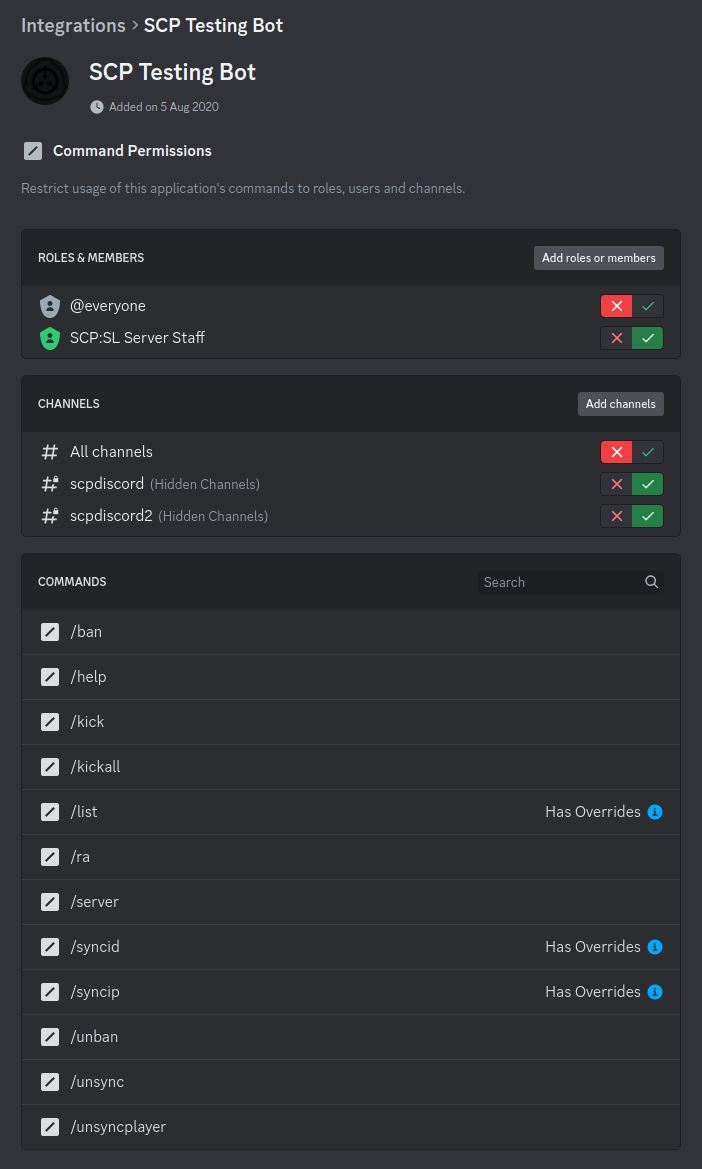
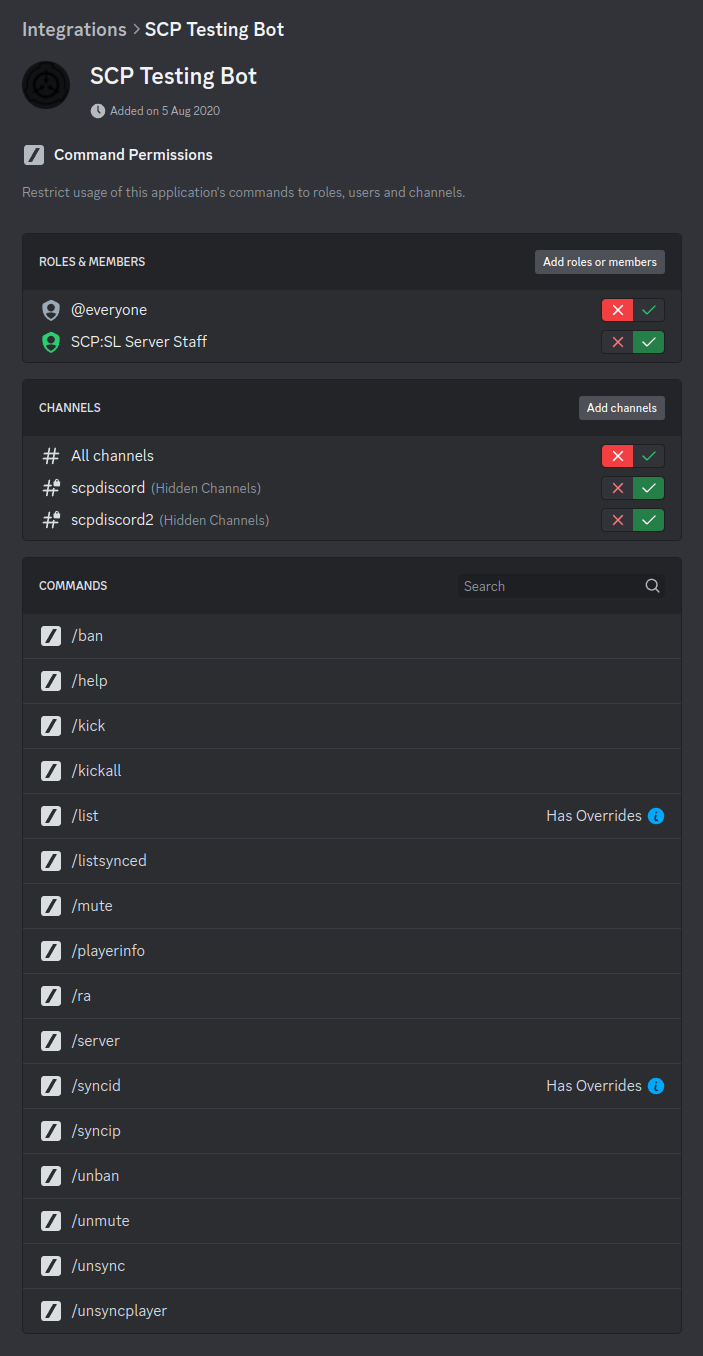
Updated documentation and added option to turn off playtime tracking

diff --git a/SCPDiscordPlugin/Config.cs b/SCPDiscordPlugin/Config.cs
@@ -43,6 +43,7 @@ namespace SCPDiscord
 			{ "settings.emotes",                          true  },
 			{ "settings.regeneratelanguagefiles",         false },
 			{ "settings.rolesync",                        false },
+			{ "settings.playtime",                        true  },
 			{ "settings.useglobaldirectory.language",     true  },
 			{ "settings.useglobaldirectory.mutes",        true  },
 			{ "settings.useglobaldirectory.rolesync",     true  },

diff --git a/SCPDiscordPlugin/PlayTime.cs b/SCPDiscordPlugin/PlayTime.cs
@@ -92,6 +92,13 @@ namespace SCPDiscord
 
         public static void WriteCacheToFile()
         {
+	        if (!Config.GetBool("settings.playtime"))
+	        {
+		        writeCache = new Dictionary<string, ulong>();
+		        joinTimes = new Dictionary<string, DateTime>();
+		        return;
+	        }
+
 	        lock (fileLock)
 	        {
 	            try

diff --git a/SCPDiscordPlugin/RoleSync.cs b/SCPDiscordPlugin/RoleSync.cs
@@ -50,6 +50,7 @@ namespace SCPDiscord
 				catch (Exception e)
 				{
 					Logger.Error("Could not read rolesync file '" + Config.GetRolesyncPath() + "', check the file formatting and try again.");
+					Logger.Debug("Error: " + e);
 					throw;
 				}
 			}

diff --git a/docs/Languages.md b/docs/Languages.md
@@ -2,30 +2,32 @@
 
 There are several languages included in the plugin dll. The current languages are:
 * English (default)
-* English with emotes
 * Ukrainian
-* Ukrainian with emotes
 * Russian
-* Russian with emotes
+* Chinese (Simplified)
+* Italian
 
 You can choose which language you want to use by setting the config entry `settings.language` to the name of the language file in all lower-case. You can find the language files in `SCPDiscord/Languages` in your plugin directory.
 
 # Overriding specific messages
 
-Use the overrides.yml file to override specific entries from the normal language files.
+Use the `overrides.yml` file to override specific entries from the normal language files.
 
-Here is an example where the bot status language entry has been copied from `english.yml` to `overrides.yml` and changed to remove the spaces:
+Here is an example where the player report language entry has been copied from `english.yml` to `overrides.yml` and changed to add a discord mention to a staff member:
 
 ```yaml
-messages:
-    botstatus:
-        # players - int
-        # maxplayers - int
-        message: "<var:players>/<var:maxplayers>"
-        regex: []
+  onplayerreport:
+    # player - Player
+    # target - Player
+    # reason - string
+    message: "**<var:player-name> (<var:player-userid>) reported <var:target-name> (<var:target-userid>) for breaking server rules:**\n```<var:reason>``` <@170904988724232192>"
+    regex: []
+    cancel_regex: []
 ```
 
 This overrides only the bot status and uses the language file for everything else. You can keep the regenerate language files config option on as the overrides file is not affected by it. This makes sure your language files don't get outdated when you update the plugin.
+
+There is also an `emote-overrides.yml` file which works the exact same way but for the `emotes.yml` file.
 
 If you want to find out more about how the language files work you can read the contribution guide below.
 
@@ -39,14 +41,23 @@ In notepad++:
 
 Also make sure to turn off language regeneration in the config or your changes will be overwritten!
 
-If you are making a new language you can copy the english.yml file and name the new file something in all lowercase. Otherwise you can just edit the english file directly. Below is a more in depth guide, but you can just edit the existing words instead if you wish.
+If you are making a new language you can copy the english.yml file and name the new file something in all lowercase. Otherwise you can just edit the english file directly as long as you have turned off overwriting the language files in the config. Below is a more in depth guide, but you can just edit the existing words instead if you wish.
 
 If you want to you can submit your language file to the default languages by either making a pull request here on GitHub or by sending it to me either in an issue here or in Discord.
 
 ### Messages
-These are the messages that are sent to Discord, you can add variables to them with the <var:name> syntax. If you for instance want to add an IP-address to the OnConnect event message you can put `"Player is connecting with IP address <var:ipaddress>."` which will become for instance `Player is connecting with IP address 127.0.0.1.` in Discord.
+These are the messages that are sent to Discord, you can add variables to them with the <var:name> syntax. If you for instance want to add an IP-address to the OnConnect event message you can put `"Player is connecting with IP address <var:ipaddress>."` which will become something like `Player is connecting with IP address 127.0.0.1.` in Discord.
 
 All available variables are listed as comments on each event.
+
+Player variables are a bit special. If a message lists one or more player variables like this:
+```yaml
+# attacker - Player
+# target - Player
+```
+it means each of these contain a number of standard variables like `attacker-name`, `attacker-userid`, `attacker-role` and so on (same for the target player).
+
+The top of the language file should have a list of all available player variables, but if you want to be sure you can also check the list in [APIExtensions.cs](../SCPDiscordPlugin/APIExtensions.cs).
 
 ### Regex
 This will not be necessary for most users.
@@ -57,6 +68,9 @@ If you are unfamiliar with regex, don't worry, you can basically think of it as 
 
 If you are interested in learning how regex works use this link to start learning some simple patterns: [RegExr](https://regexr.com/)
 
+### Cancel Regex
+These are regex patterns where the entire message will get cancelled if there is a match.
+
 ### Order of operations
 
 As this config is basically just doing lots of replacements on the same message before sending it, the order of operations may matter to you.
@@ -66,15 +80,14 @@ The replacements are executed in the following order:
 1. The unparsed message is read from the config.
 2. All variables are added to the message except names
 3. The `global_regex` replacements are executed, I use this to fix names of variables such as classes and items.
-4. The message specific `regex` is executed, I use this for simple logic replacements such as
+4. The message specific `regex` is executed, I use this for simple logic replacements such as:
 ```yaml
 # This replaces isopen:<var:open> with close if the door is open
 # and with open if the door is closed.
-message: "<var:name> (<var:steamid>) tried to isopen:<var:open> a locked door."
+message: "<var:player-name> (<var:player-userid>) tried to isopen:<var:open> a locked door."
 regex: ["isopen:True":"close", "isopen:False":"open"]
 ```
-5. The variables representing names are added in, this is to make sure players don't use names with words that get accidentally or deliberately replaced by your above regex replacements.
-6. The `final_regex` is executed and is meant mostly to perform replacements in player names if that is something you wish to do. Example here:
-```yaml
-final_regex: ["discord\\.gg":"","http://":"","https://":"","www\\.":"", "<@":"<", "<@!":"<!"]
-```
+5. The message specific `cancel_regex` matching is performed and the message is cancelled if any of them match the message contents.
+6. The variables representing names are added in, this is to make sure players don't use names with words that get accidentally or deliberately replaced by your above regex replacements.
+7. The `user_regex` is executed in order to remove forbidden parts from names, this only affects user names.
+8. The `final_regex` is executed after everything else and applies to the entire message.

diff --git a/docs/Commands.md b/docs/Commands.md
@@ -2,20 +2,24 @@
 
 ## Bot commands
 
-| Command                              | Description                                                                    |
-|--------------------------------------|--------------------------------------------------------------------------------|
-| `/ban <steamid> <duration> (reason)` | Bans a player from the server.                                                 |
-| `/help`                              | Shows a message with useful information.                                       |
-| `/kick <steamid> (reason)`           | Kicks a player from the server.                                                |
-| `/kickall (reason)`                  | Kicks all players from the server with a message, useful for server shutdowns. |
-| `/list`                              | Lists all online players.                                                      |
-| `/ra <command>`                      | Runs a remote admin command.                                                   |
-| `/server <command>`                  | Runs a server command.                                                         |
-| `/syncid <steamid>`                  | Syncs your Discord role to the game.                                           |
-| `/syncip <ip>`                       | Syncs your Discord role to the game. (For servers not using steam)             |
-| `/unban <steamid/ip>`                | Unbans a player from the server.                                               |
-| `/unsync`                            | Unsyncs your Discord account.                                                  |
-| `/unsyncplayer <user>`               | Unsyncs a Discord account.                                                     |
+| Command                               | Description                                                                    |
+|---------------------------------------|--------------------------------------------------------------------------------|
+| `/ban <steamid> <duration> <reason>`  | Bans a player from the server.                                                 |
+| `/help`                               | Shows a message with useful information.                                       |
+| `/kick <steamid> (reason)`            | Kicks a player from the server.                                                |
+| `/kickall (reason)`                   | Kicks all players from the server with a message, useful for server shutdowns. |
+| `/list`                               | Lists all online players.                                                      |
+| `/listsynced (listoffline)`           | Lists all synced players, includes offline players if set to true.             |
+| `/mute <steamid> <duration> <reason>` | Mutes a player.                                                                |
+| `/playerinfo <steamid>`               | Shows a short list of player information.                                      |
+| `/ra <command>`                       | Runs a remote admin command.                                                   |
+| `/server <command>`                   | Runs a server command.                                                         |
+| `/syncid <steamid>`                   | Syncs your Discord role to the game.                                           |
+| `/syncip <ip>`                        | Syncs your Discord role to the game. (For servers not using steam)             |
+| `/unban <steamid/ip>`                 | Unbans a player from the server.                                               |
+| `/unmute <steamid>`                   | Unmutes a player.                                                              |
+| `/unsync`                             | Unsyncs your Discord account.                                                  |
+| `/unsyncplayer <user>`                | Unsyncs a Discord account.                                                     |
 
 ## Plugin console commands
 
@@ -33,7 +37,6 @@ Base command:
 | `setnickname <player id/steamid> <nickname>`<br/>`nick <player id/steamid> <nickname>` | Sets a player's nickname, useful for the rolesync system if you want to sync discord names. |
 | `unsync <discordid>`                                                                   | Manually remove a player from being synced to discord.                                      |
 | `validate`                                                                             | Creates a config and language validation report in the console.                             |
-| `verbose`                                                                              | Toggles verbose console messages.                                                           |
 
 ## Time
 

diff --git a/docs/Installation.md b/docs/Installation.md
@@ -1,34 +1,30 @@
 # Installation
 
-----
+## Plugin Setup
 
-## 1. Download
+### Installing the plugin
 
-Download SCPDiscord, either a [release](https://github.com/KarlOfDuty/SCPDiscord/releases) or [dev build](https://jenkins.karlofduty.com/blue/organizations/jenkins/CI%2FSCPDiscord/activity/).
-
-### **Bot:**
-
-Extract the bot anywhere you wish outside of the server directory.
-
-### **Plugin:**
-
-**Download using the package manager:**
+**Option 1: Download using the localadmin package manager**
 
 `p install KarlOfDuty/SCPDiscord` and restart your server.
 
-**Manual download:**
+**Option 2: Manual download**
 
-Extract the plugin and dependencies directory into the `PluginAPI/plugins/<port>` directory:
+Download SCPDiscord, either a [release](https://github.com/KarlOfDuty/SCPDiscord/releases) or [dev build](https://jenkins.karlofduty.com/blue/organizations/jenkins/CI%2FSCPDiscord/activity/).
+Place the plugin library and dependencies directory in the `~/.config/SCP Secret Laboratory/PluginAPI/plugins/<port>` directory:
 ```
 plugins/
     <port>/
         dependencies/
             Google.Protobuf.dll
             Newtonsoft.Json.dll
-            YamlDotNet.dll
+            System.Memory.dll
         SCPDiscord.dll
 ```
-## 2. Plugin config
+
+----
+
+### 2. Plugin config
 
 The plugin config is automatically created for you the first time you run the plugin. The path is printed in the server console on startup so you know for sure where it is.
 
@@ -43,18 +39,21 @@ Simply change the bot ip in the plugin config to correspond with the other devic
 
 ----
 
-## 3. Bot setup and config:
+## Bot Setup:
 
-### Bot setup:
+### 1. Creating the Discord bot
 
 Set up your bot in the discord control panel according to the guide [here](CreateBot.md).
 
-### Config setup:
+### 2. Download the bot
 
-[Click here to view default config](https://github.com/KarlOfDuty/SCPDiscord/blob/master/SCPDiscordBot/default_config.yml)
+Download SCPDiscord, either a [release](https://github.com/KarlOfDuty/SCPDiscord/releases) or [dev build](https://jenkins.karlofduty.com/blue/organizations/jenkins/CI%2FSCPDiscord/activity/).
 
-The different options are described in the config. Get Discord IDs by turning on developer mode in Discord and right clicking on a server, role or user.
+There are two versions available, a self contained version which can run on its own and a smaller version which requires you to install dotnet-8.0 on the system first.
 
+Pick the one you want and extract it somewhere where your user has permission to read and write.
+
+### 4. Run the bot
 Run the bot using:
 ```yaml
 # Linux:
@@ -63,16 +62,25 @@ Run the bot using:
 ./SCPDiscordBot.exe
 ```
 
+This should now have generated the default config in your working directory.
+
 If you want to run several bots you can just enter the config you want to use for each instance as a command parameter:
 ```yaml
 ./SCPDiscordBot config1.yml
 ./SCPDiscordBot config2.yml
 ```
 
+If you are unable to run the bot make sure the file has correct permissions.
 
-If you are unable to run the bot make sure the file has correct permissions and try installing dotnet 7.0.
+### 4. Configure the bot
 
-### Command permissions
+[Click here to view default config](https://github.com/KarlOfDuty/SCPDiscord/blob/master/SCPDiscordBot/default_config.yml)
+
+The different options are described in the config. Get Discord IDs by turning on developer mode in Discord and right clicking on a server, role or user.
+
+Restart the bot to apply the changes.
+
+### 5. Set bot command permissions
 
 Make sure to restrict who is allowed to use the bot's commands in your Discord server settings:
 
@@ -98,7 +106,7 @@ This way your mods will not have to think about which bot they are executing the
 
 **The bot has no authorization of incoming connections**, this means you cannot allow the plugin's port through your firewall or anyone will be able to send fake messages to it.
 
-If you really need to run the SCP:SL server on one system and the bot on another connected over the internet you can try this:
+If you really need to run the SCP:SL server on one system and the bot on another connected over the internet you can try this (if your system uses ufw):
 
 ```bash
 sudo ufw allow from 111.111.111.111 to any port 8888

diff --git a/README.md b/README.md
@@ -26,7 +26,7 @@ Individual events can be configured to post to different and multiple Discord ch
 ![channelList.png](docs/img/channelList.png)
 
 ### MultiAdmin servers
-Each sub-server of a MultiAdmin server can post to the same channel, different channels or even different Discord servers. They work just like individual SCPSL servers.
+Each sub-server of a MultiAdmin server can post to the same channel, different channels or even different Discord servers. They work just like individual SCP:SL servers.
 
 ### Running server commands
 You can use server and remote admin commands via the bot, with command permissions limited to specific roles of your choice.
@@ -36,14 +36,14 @@ You can use server and remote admin commands via the bot, with command permissio
 ![raCommandExample.png](docs%2Fimg%2FraCommandExample.png)
 
 ### Extra commands
-The bot also comes with a few extra commands such as improved ban/unban commands which will include information on which Discord user used the command.
+The bot also comes with a few extra commands such as playerinfo, improved ban/unban, and improved mute/unmute commands which all also work on offline players.
 
 More information about bot commands are available [here](docs/Commands.md).
 
 ![helpcommand.png](docs%2Fimg%2Fhelpcommand.png)
 
 ### Languages and messages
-There are several languages to choose from and every single individual message can also be edited separately from the language settings using the `overrides.yml` file. More info [here](docs/Languages.md).
+There are several languages to choose from and every single individual message can also be edited separately from the language settings using the `overrides.yml` and optionally `emote-overrides.yml` files. More info [here](docs/Languages.md).
 
 ### Bot activity info
 Player count is displayed in the bot activity field. The bot's status changes from red when the scp server is off but the bot server is on, yellow when there are no players on a server and green when a server has players.
@@ -53,6 +53,11 @@ The activity text can also be customised in the language or overrides file.
 ![botActivity.png](docs%2Fimg%2FbotActivity.png)
 
 ### Role and reserved slot syncing
-You can automatically sync ranks from Discord to the server, letting you automate things like supporter rewards and moderator positions.
+The role sync system lets you execute any command when a player joins depending on their current Discord role.
 
-You can also grant reserved slots automatically for specific Discord roles, and automatically remove them if they lose their role.
+You can grant reserved slots automatically for specific Discord roles, and automatically remove them if they lose their Discord role.
+
+The plugin also includes commands to grant temporary in-game server ranks, which handles automatically granting and revoking in-game ranks when they are granted and revoked in Discord.
+
+### Playtime tracking
+The plugin optionally tracks players play time on the servers which can be viewed using the `/playerinfo` command.

diff --git a/docs/CreateBot.md b/docs/CreateBot.md
@@ -7,7 +7,7 @@
 
 ![Image showing a Discord selection box](img/botPublic.png)
 
-5. Turn on all intents in the bot tab: 
+5. Turn on all intents in the bot tab:
 
 ![Image showing a Discord selection box](img/botPage.png)
 
